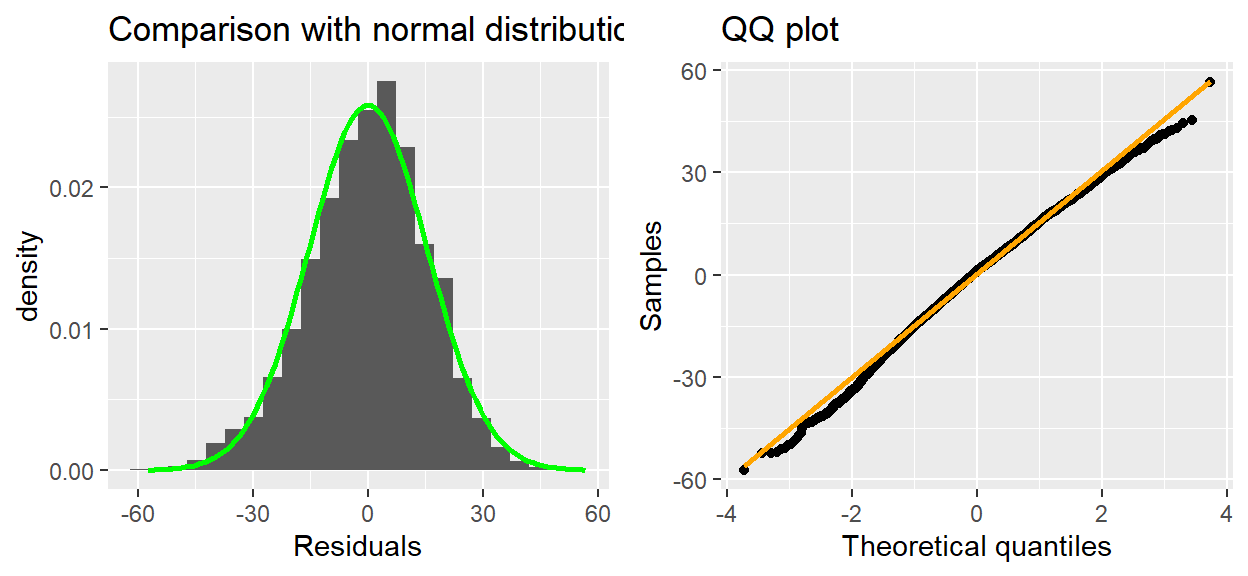
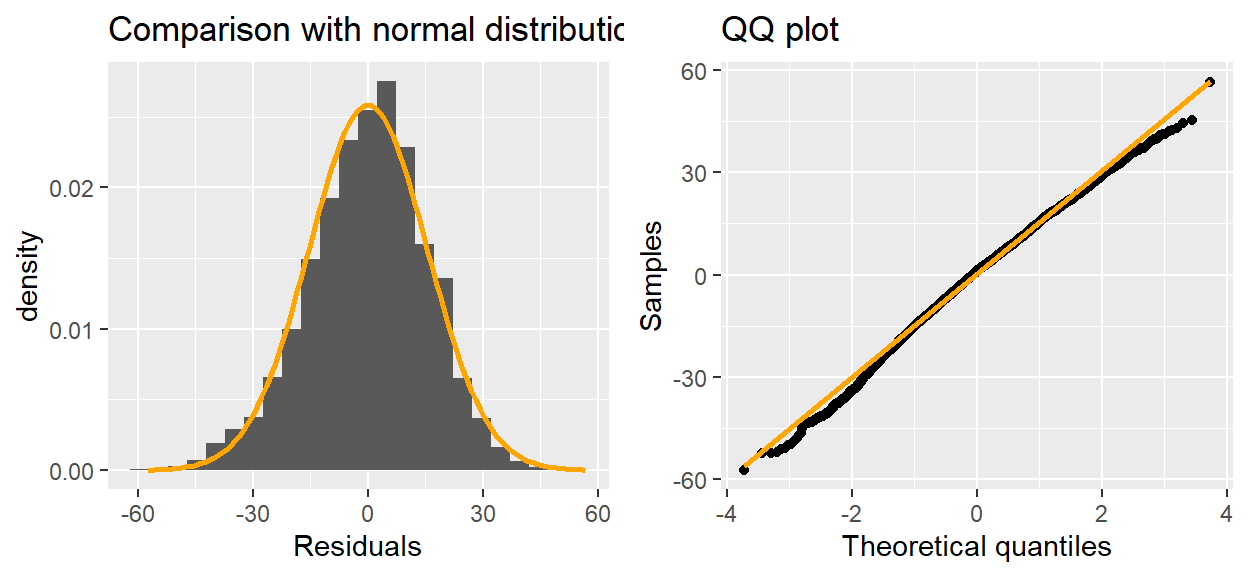
minor fixes

diff --git a/index.html b/index.html
@@ -938,7 +938,7 @@ Residual plots
 <span id="cb44-8"><a href="#cb44-8" aria-hidden="true" tabindex="-1"></a>    <span class="fu">geom_histogram</span>(<span class="fu">aes</span>(<span class="at">y=</span>..density..), <span class="at">bins=</span><span class="dv">24</span>) <span class="sc">+</span></span>
 <span id="cb44-9"><a href="#cb44-9" aria-hidden="true" tabindex="-1"></a>    <span class="fu">stat_function</span>(<span class="at">fun=</span>dnorm,</span>
 <span id="cb44-10"><a href="#cb44-10" aria-hidden="true" tabindex="-1"></a>                  <span class="at">args=</span><span class="fu">list</span>(<span class="at">mean=</span>m, <span class="at">sd=</span>s),</span>
-<span id="cb44-11"><a href="#cb44-11" aria-hidden="true" tabindex="-1"></a>                  <span class="at">color=</span><span class="st">'green'</span>, <span class="at">lwd=</span><span class="dv">1</span>) <span class="sc">+</span></span>
+<span id="cb44-11"><a href="#cb44-11" aria-hidden="true" tabindex="-1"></a>                  <span class="at">color=</span><span class="st">'orange'</span>, <span class="at">lwd=</span><span class="dv">1</span>) <span class="sc">+</span></span>
 <span id="cb44-12"><a href="#cb44-12" aria-hidden="true" tabindex="-1"></a>    <span class="fu">ggtitle</span>(<span class="st">'Comparison with normal distribution'</span>) <span class="sc">+</span></span>
 <span id="cb44-13"><a href="#cb44-13" aria-hidden="true" tabindex="-1"></a>    <span class="fu">xlab</span>(<span class="st">'Residuals'</span>)</span>
 <span id="cb44-14"><a href="#cb44-14" aria-hidden="true" tabindex="-1"></a>  </span>
@@ -1027,7 +1027,7 @@ Convenience functions for visualizing functional PCs
 <div class="sourceCode cell-code" id="cb50"><pre class="sourceCode r code-with-copy"><code class="sourceCode r"><span id="cb50-1"><a href="#cb50-1" aria-hidden="true" tabindex="-1"></a><span class="fu">plot</span>(<span class="at">x=</span>fpca_t<span class="sc">$</span>obsGrid, <span class="at">y=</span>very_high_s1, <span class="at">type=</span><span class="st">'l'</span>, </span>
 <span id="cb50-2"><a href="#cb50-2" aria-hidden="true" tabindex="-1"></a>     <span class="at">ylab=</span><span class="st">''</span>, <span class="at">xlab=</span><span class="st">'Frequency (Hz)'</span>)</span>
 <span id="cb50-3"><a href="#cb50-3" aria-hidden="true" tabindex="-1"></a><span class="fu">lines</span>(<span class="at">x=</span>fpca_t<span class="sc">$</span>obsGrid, <span class="at">y=</span>fpca_t<span class="sc">$</span>mu, <span class="at">lty=</span><span class="st">'dotted'</span>)</span>
-<span id="cb50-4"><a href="#cb50-4" aria-hidden="true" tabindex="-1"></a><span class="fu">text</span>(<span class="at">x=</span><span class="dv">4000</span>, <span class="at">y=</span><span class="fl">0.9</span>, <span class="at">labels=</span><span class="fu">expression</span>(Spectrum<span class="sc">~</span>with<span class="sc">~</span>very<span class="sc">~</span>high<span class="sc">~</span>s[<span class="dv">1</span>]))</span>
+<span id="cb50-4"><a href="#cb50-4" aria-hidden="true" tabindex="-1"></a><span class="fu">text</span>(<span class="at">x=</span><span class="dv">4200</span>, <span class="at">y=</span><span class="fl">0.9</span>, <span class="at">labels=</span><span class="fu">expression</span>(Spectrum<span class="sc">~</span>with<span class="sc">~</span>very<span class="sc">~</span>high<span class="sc">~</span>s[<span class="dv">1</span>]))</span>
 <span id="cb50-5"><a href="#cb50-5" aria-hidden="true" tabindex="-1"></a><span class="fu">text</span>(<span class="at">x=</span><span class="dv">6500</span>, <span class="at">y=</span><span class="fl">0.3</span>, <span class="at">labels=</span><span class="st">'Mean spectrum'</span>)</span></code><button title="Copy to Clipboard" class="code-copy-button"><i class="bi"></i></button></pre></div>
 <div class="cell-output-display">
 <div class="quarto-figure quarto-figure-center">
